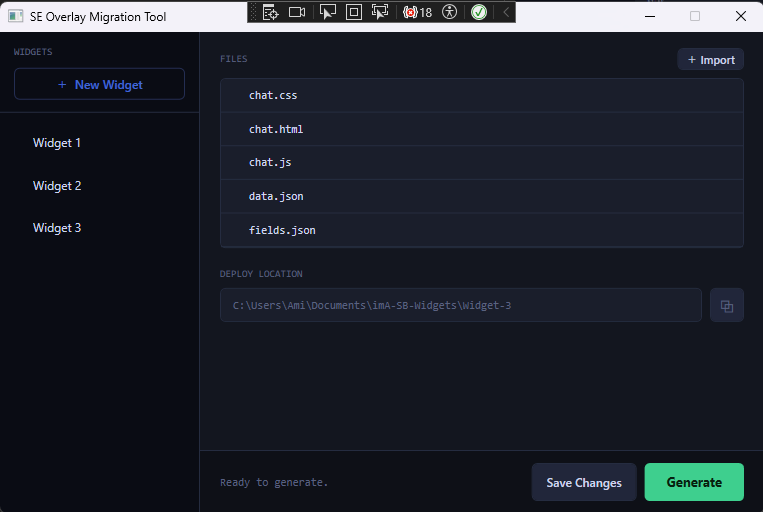
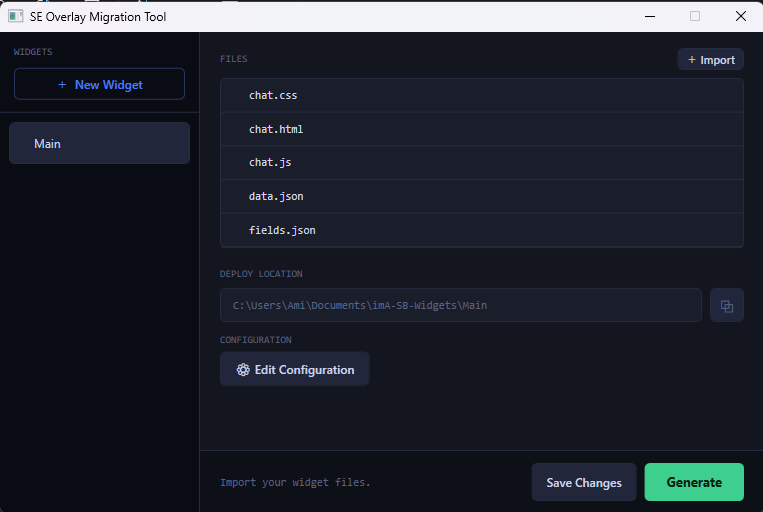
Updated ReadMe and images

diff --git a/README.md b/README.md
@@ -156,10 +156,13 @@ If the warning banner appears, follow its instructions (e.g. add the missing HTM
 ### Step 4 — Save your work
 Click **Save**.
 
-### Step 5 — Generate
+### Step 6 — Edit Configuration (optional)
+Click **Edit Configuration**. Configure the widget settings as needed.
+
+### Step 7 — Generate
 Click **Generate**. The tool writes the processed files to the deploy path shown under **Deploy Location**.
 
-### Step 6 — Add to OBS
+### Step 8 — Add to OBS
 Copy the deploy URL and create a browser source in OBS pointing to it.
 
 ---
